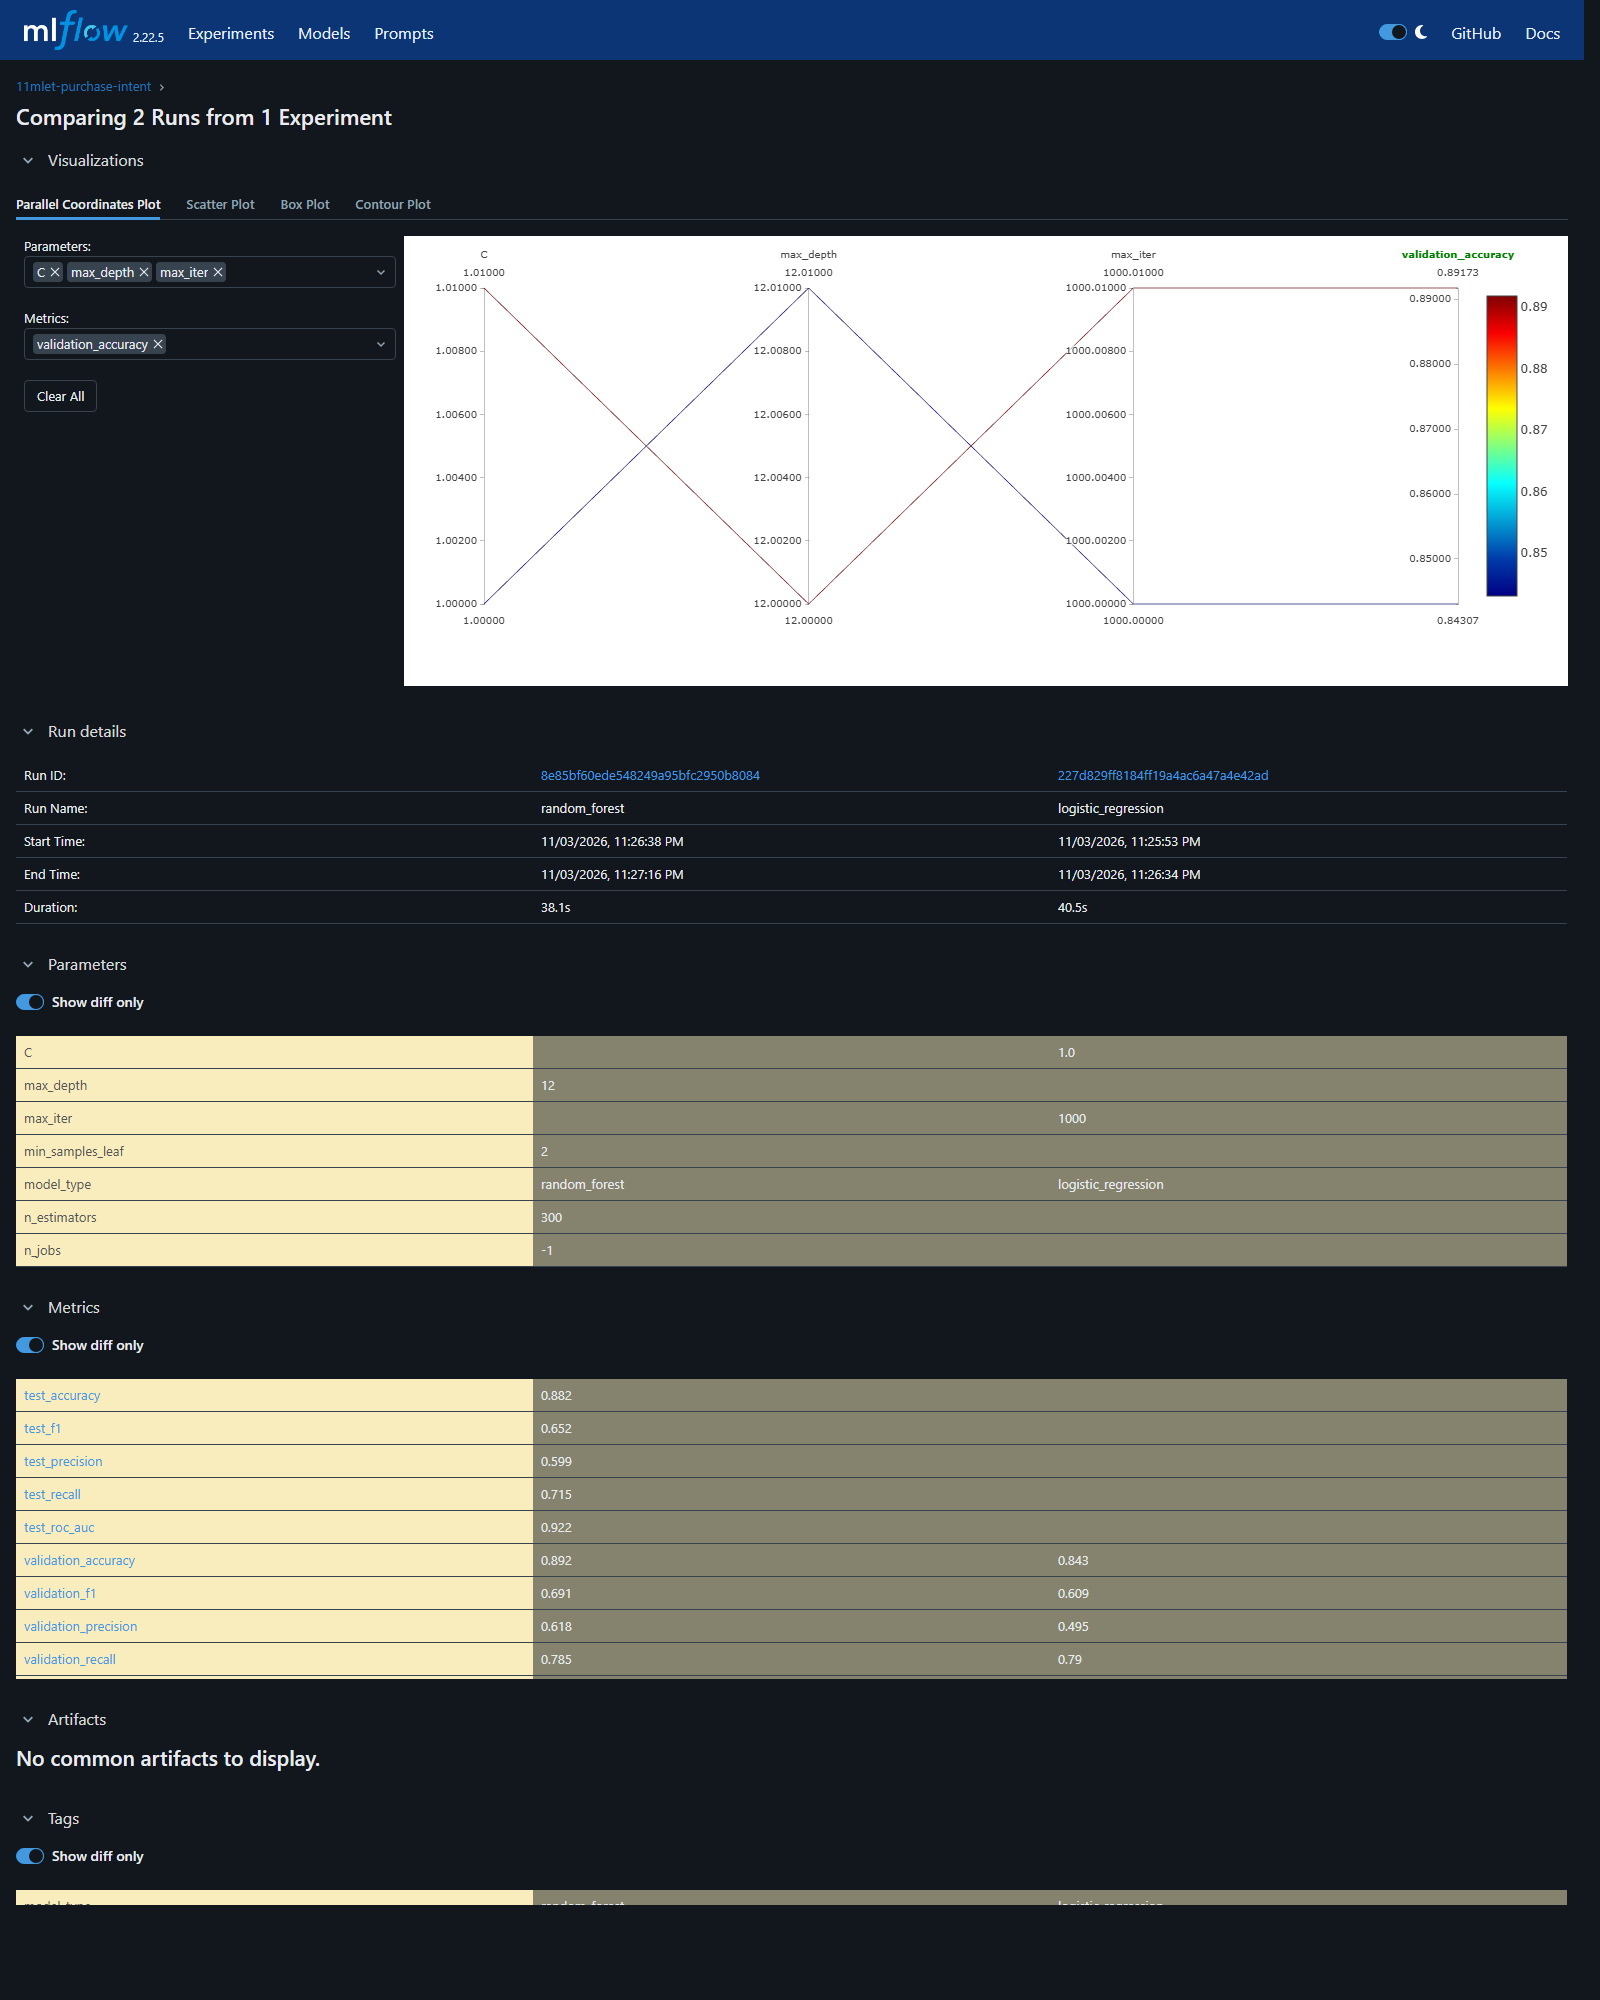
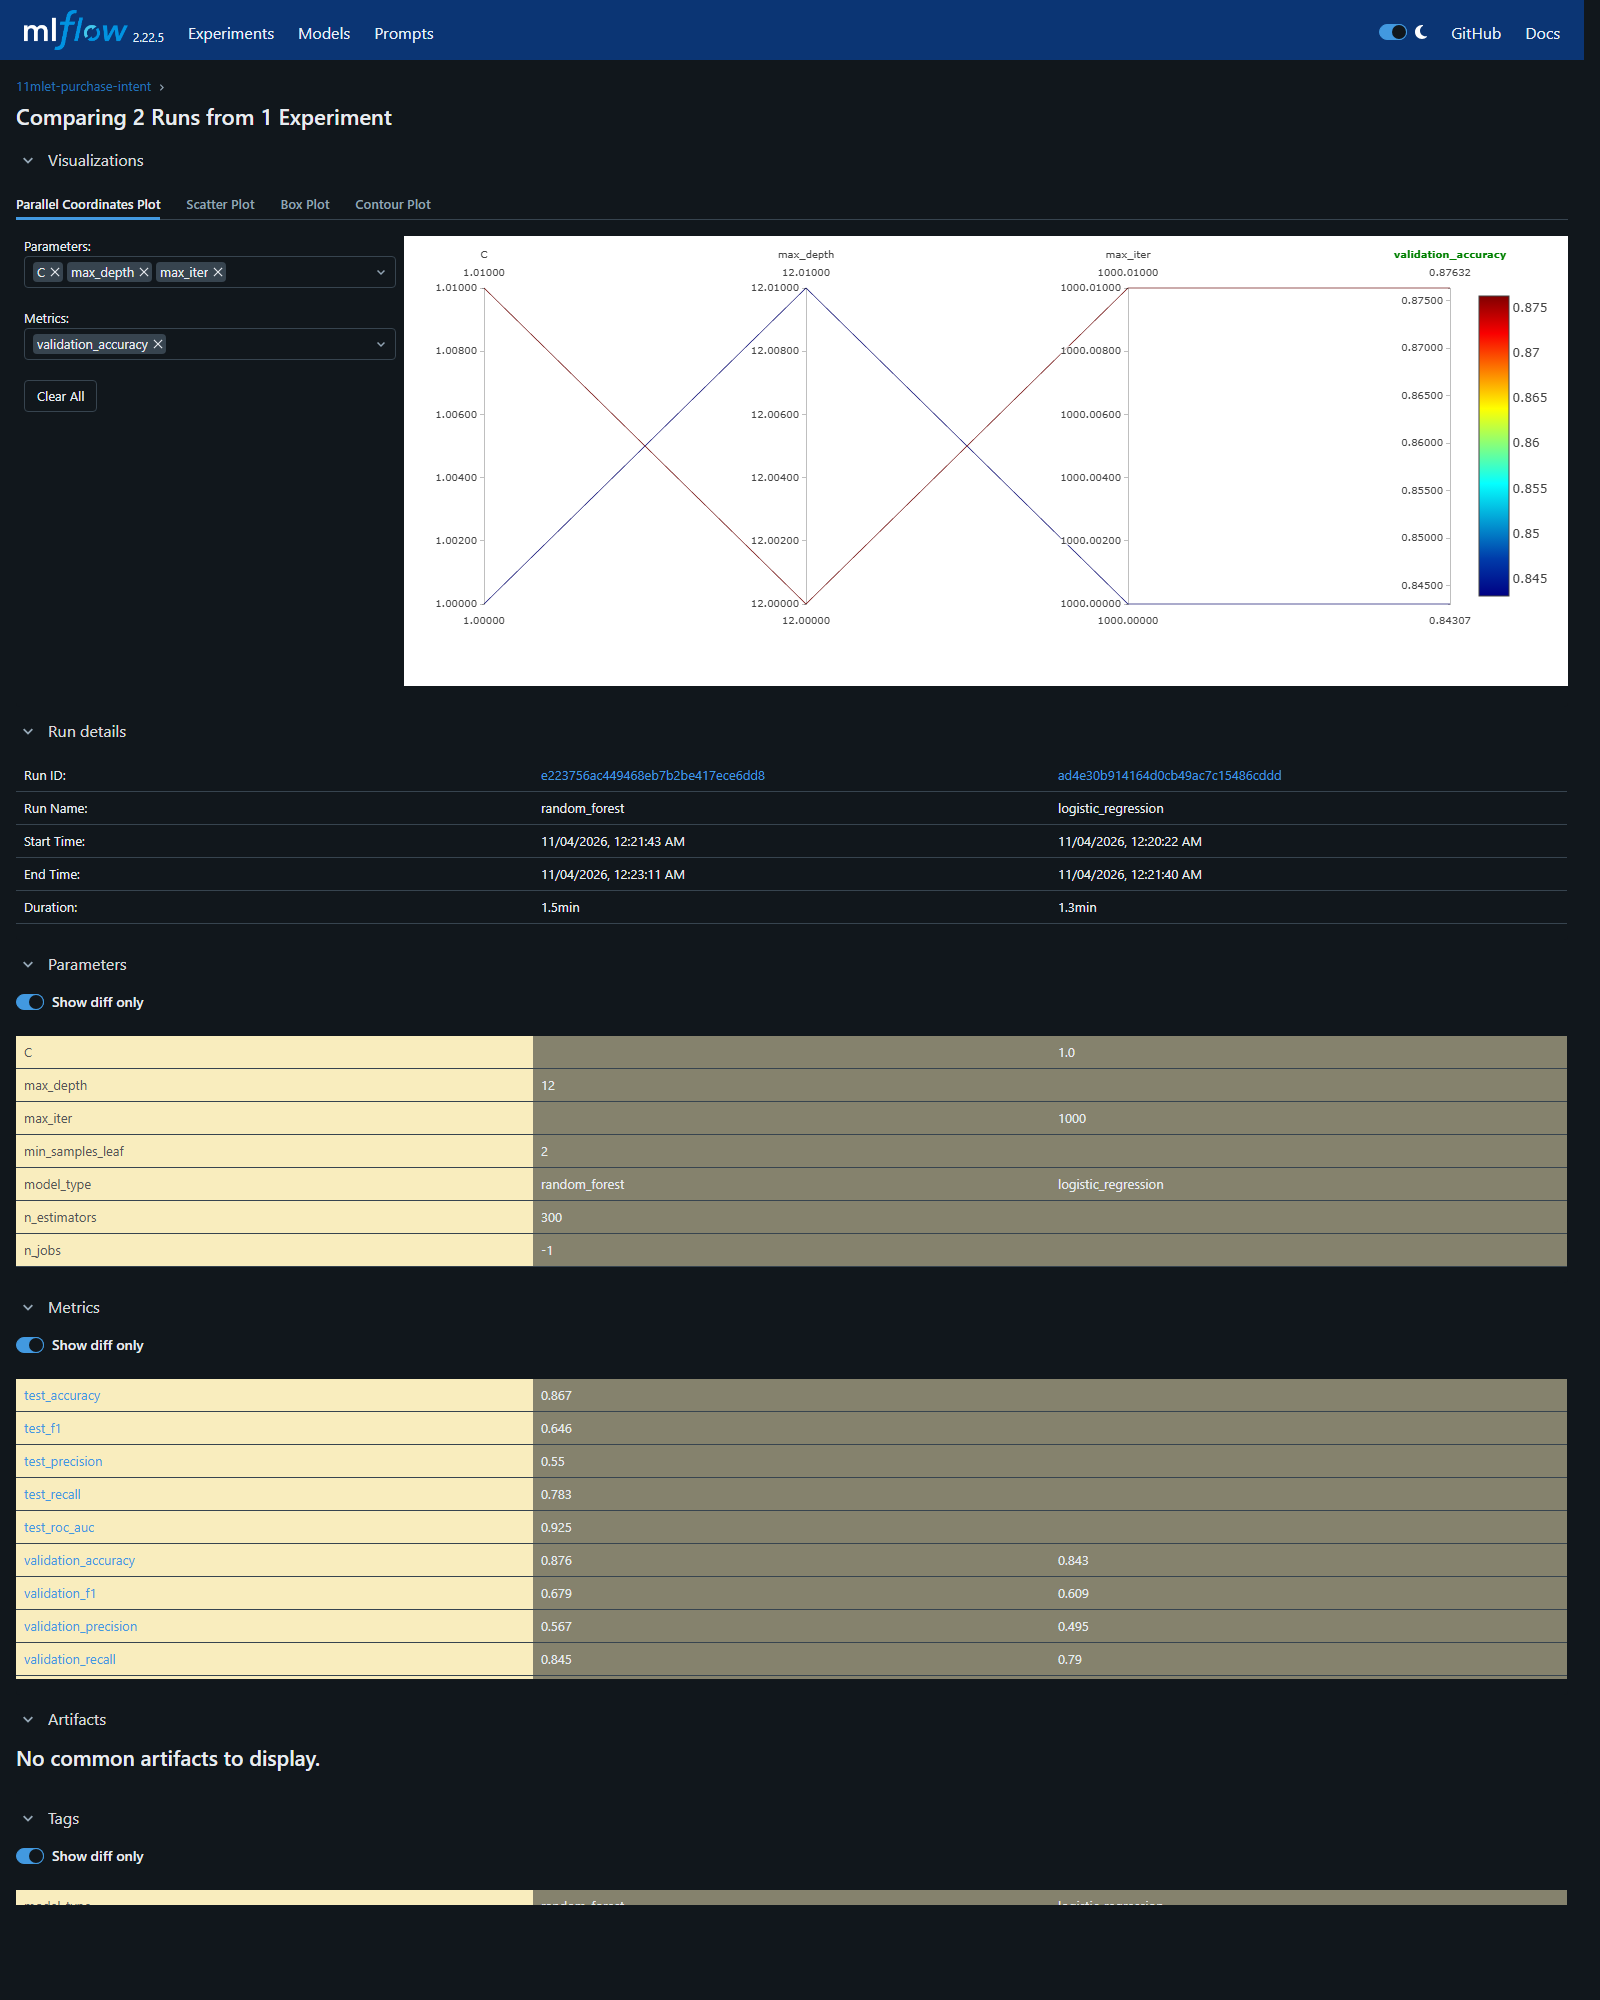
docs: metricas, prints e roteiro atualizados com a execucao reproduzivel

diff --git a/MODEL_CARD.md b/MODEL_CARD.md
@@ -17,7 +17,7 @@ Ambos usam o mesmo pré-processamento dentro do `Pipeline` do Scikit-Learn: impu
 | Modelo | Hiperparâmetros | Val. F1 | Val. ROC AUC | Val. Recall | Val. Precision |
 | --- | --- | --- | --- | --- | --- |
 | Regressão logística | C=1.0, max_iter=1000 | 0.609 | 0.908 | 0.790 | 0.495 |
-| **Random Forest** (campeão) | 300 árvores, max_depth=12, min_samples_leaf=2 | **0.691** | **0.930** | 0.785 | 0.618 |
+| **Random Forest** (campeão) | 300 árvores, max_depth=12, min_samples_leaf=2 | **0.679** | **0.933** | 0.845 | 0.567 |
 
 Critério de seleção: maior F1 de validação, por ser o que melhor equilibra precisão e recall na classe minoritária.
 
@@ -25,17 +25,17 @@ Critério de seleção: maior F1 de validação, por ser o que melhor equilibra 
 
 | Métrica | Valor |
 | --- | --- |
-| Accuracy | 0.882 |
-| Precision | 0.599 |
-| Recall | 0.715 |
-| F1 | 0.652 |
-| ROC AUC | 0.922 |
+| Accuracy | 0.867 |
+| Precision | 0.550 |
+| Recall | 0.783 |
+| F1 | 0.646 |
+| ROC AUC | 0.925 |
 
-2.466 sessões de teste. Fonte: `reports/metrics.json`, também logado no run do MLflow e gravado como tags da versão registrada (`11mlet-purchase-intent`, alias `champion`).
+2.466 sessões de teste, com as versões exatas do `poetry.lock` (mesmo resultado no Windows e no Docker/Linux do CI). Fonte: `reports/metrics.json`, também logado no run do MLflow e gravado como tags da versão registrada (`11mlet-purchase-intent`, alias `champion`).
 
 ## Limitações
 
 - O dataset é de 2018 e de um único e-commerce; não representa necessariamente outros canais, países ou sazonalidades.
-- Classes desbalanceadas: com limiar 0,5, cerca de 4 em cada 10 sessões previstas como compra não compram. O limiar pode ser ajustado conforme o custo de cada erro.
-- `PageValues` é a variável mais informativa e depende do tracking analítico do site; mudanças nesse cálculo degradam o modelo.
+- Classes desbalanceadas: com limiar 0,5, o modelo encontra ~78% das compras, mas quase metade das sessões previstas como compra não compram (precision 0,55). O limiar pode ser ajustado conforme o custo de cada erro.
+- `PageValues` é de longe a variável mais importante do Random Forest (~46% da importância) e depende do tracking analítico do site; mudanças nesse cálculo degradam o modelo.
 - Previsões são associações estatísticas, não explicações causais.

diff --git a/docs/VIDEO_STAR_ROTEIRO.md b/docs/VIDEO_STAR_ROTEIRO.md
@@ -13,10 +13,12 @@
 2. **Poetry**: `pyproject.toml` com grupos prod/dev e `poetry.lock`; `.env.example` → `.env`.
 3. **DVC**: `dvc dag` mostrando download → prepare → train → evaluate → register; `params.yaml` como fonte única de hiperparâmetros e seed.
 4. **MLflow**: um run por candidato (regressão logística e Random Forest), comparação de runs, métricas de teste no run vencedor, versão registrada com alias `champion`.
-5. **Docker**: Dockerfile multi-stage (Poetry só no builder, usuário não-root) e `docker compose --profile pipeline up` subindo MLflow + pipeline.
+5. **Predição**: `python -m purchase_intent.predict` carregando o modelo `@champion` do Registry.
+6. **Docker**: Dockerfile multi-stage (Poetry só no builder, usuário não-root) e `docker compose --profile pipeline up` subindo MLflow + pipeline.
 
 ## Result (~1 min)
 - Rodar o pipeline ao vivo (ou mostrar `dvc repro` + `dvc metrics show`).
-- Random Forest venceu: F1 de teste 0,652, ROC AUC 0,922, recall 0,715.
+- Random Forest venceu: F1 de teste 0,646, ROC AUC 0,925, recall 0,783 (regressão logística: F1 de validação 0,609).
 - Prints de apoio: `docs/images/`.
-- Aprendizados: seleção por validação mantendo o teste isolado; parâmetros versionados tornam cada experimento reproduzível; métricas além de accuracy em dados desbalanceados.
+- Mostrar o CI verde: lint, testes e o pipeline inteiro rodando no Docker a cada push.
+- Aprendizados: seleção por validação mantendo o teste isolado; parâmetros versionados tornam cada experimento reproduzível; métricas além de accuracy em dados desbalanceados; versões travadas no lock e fim de linha LF para os hashes do DVC baterem em qualquer SO.

diff --git a/README.md b/README.md
@@ -97,14 +97,14 @@ poetry run python -m purchase_intent.predict data/interim/test.csv reports/predi
 | Modelo | Val. F1 | Val. ROC AUC | Teste F1 | Teste ROC AUC | Teste Recall | Teste Accuracy |
 | --- | --- | --- | --- | --- | --- | --- |
 | Regressão logística | 0.609 | 0.908 | — | — | — | — |
-| **Random Forest (champion)** | **0.691** | **0.930** | **0.652** | **0.922** | **0.715** | **0.882** |
+| **Random Forest (champion)** | **0.679** | **0.933** | **0.646** | **0.925** | **0.783** | **0.867** |
 
-O teste é calculado só para o modelo escolhido na validação. Accuracy sozinha engana com classes desbalanceadas, por isso a seleção usa F1. Detalhes e limitações em [MODEL_CARD.md](MODEL_CARD.md); valores versionados em `reports/metrics.json`.
+Números obtidos com as versões exatas do `poetry.lock` e idênticos no Windows e no pipeline Docker do CI. O teste é calculado só para o modelo escolhido na validação. Accuracy sozinha engana com classes desbalanceadas, por isso a seleção usa F1. Detalhes e limitações em [MODEL_CARD.md](MODEL_CARD.md); valores versionados em `reports/metrics.json`.
 
 ```text
 $ dvc metrics show
-Path                  accuracy    f1       model_type     precision    recall    roc_auc    test_rows
-reports/metrics.json  0.88159     0.65155  random_forest  0.59868      0.71466   0.92227    2466
+Path                  accuracy    f1       model_type     precision    recall    roc_auc    test_rows
+reports/metrics.json  0.86699     0.64579  random_forest  0.54963      0.78272   0.92507    2466
 ```
 
 ### Evidências (MLflow)
